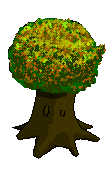
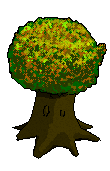
Added Z coordinate to objects.
git-svn-id: svn://svn.code.sf.net/p/annchienta/code/trunk@335 6c58e83f-43c0-4801-a1bd-44083660f6ae

diff --git a/Annchienta/src/staticobject.cpp b/Annchienta/src/staticobject.cpp
@@ -16,6 +16,11 @@ using namespace io;
 #include "layer.h"
 #include "tileset.h"
 
+bool DepthSortPredicate( const Annchienta::Tile* tilep1, const Annchienta::Tile* tilep2 )
+{
+    return tilep1->getDepthSortY() < tilep2->getDepthSortY();
+}
+
 namespace Annchienta
 {
 
@@ -93,8 +98,10 @@ namespace Annchienta
         {
             collidingTiles.clear();
 
-            Point pos = this->getSpritePosition(), point;
+            Point pos = this->getMaskPosition(), point;
 
+            /* First we need to collect all colliding tiles.
+             */
             for( int ty=0; ty<layer->getHeight(); ty++ )
             {
                 for( int tx=0; tx<layer->getWidth(); tx++ )
@@ -104,9 +111,28 @@ namespace Annchienta
                     if( mask->collision( pos.x, pos.y, layer->getTileSet()->getMask(), point.x, point.y ) )
                         collidingTiles.push_back( tile );
                 }
+
             }
 
-            //needsUpdate = false;
+            /* Do a depthsort on them.
+             */
+            collidingTiles.sort( DepthSortPredicate );
+
+            /* Now, we set out Z to the highest one of the colliding tiles.
+             */
+            position.z = 0;
+            for( std::list<Tile*>::iterator i = collidingTiles.begin(); i!=collidingTiles.end(); i++ )
+            {
+                for( int p=0; p<4; p++ )
+                {
+                    if( (*i)->getZ(p) > position.z )
+                    {
+                        position.z = (*i)->getZ(p);
+                    }
+                }
+            }
+
+            needsUpdate = false;
         }
 
         mapPosition = position.to( MapPoint );
@@ -141,11 +167,16 @@ namespace Annchienta
             }
         }
 
-        Point pos = this->getSpritePosition();
+        Point pos = this->getMaskPosition();
 
-        getVideoManager()->drawSurface( sprite, pos.x, pos.y, frame->x1, frame->y1, frame->x2, frame->y2 );
-        //printf("Drawing area: %d, %d, %d, %d\n", frame->x1, frame->y1, frame->x2, frame->y2 );
+        getVideoManager()->drawSurface( sprite, pos.x, pos.y-pos.z, frame->x1, frame->y1, frame->x2, frame->y2 );
 
+        /*glColor3f(1.0f,0.0f,0.0f);
+        glBindTexture( GL_TEXTURE_2D, 0 );
+        glBegin( GL_POINTS );
+            glVertex2f( mapPosition.x, mapPosition.y );
+        glEnd();
+        glColor3f(1.0f,1.0f,1.0f);*/
     }
 
     int StaticObject::getDepthSortY() const
@@ -165,7 +196,7 @@ namespace Annchienta
         return position;
     }
 
-    Point StaticObject::getSpritePosition() const
+    Point StaticObject::getMaskPosition() const
     {
         return Point( MapPoint, mapPosition.x - (mask->getWidth()>>1), mapPosition.y - mask->getHeight(), mapPosition.z );
     }

diff --git a/Annchienta/src/entity.h b/Annchienta/src/entity.h
@@ -5,7 +5,7 @@
 #ifndef ANNCHIENTA_ENTITY_H
 #define ANNCHIENTA_ENTITY_H
 
-#include <string>
+#include "point.h"
 
 namespace Annchienta
 {
@@ -25,6 +25,7 @@ namespace Annchienta
             virtual void draw() = 0;
             virtual void update() = 0;
             virtual int getDepthSortY() const = 0;
+            virtual Point getMaskPosition() const = 0;
 
             void setDrawn( bool drawn );
             bool isDrawn() const;
@@ -35,6 +36,7 @@ namespace Annchienta
             void setLayer( Layer *layer );
             Layer *getLayer() const;
     };
+
 };
 
 #endif

diff --git a/Annchienta/src/staticobject.h b/Annchienta/src/staticobject.h
@@ -68,7 +68,7 @@ namespace Annchienta
 
             virtual void setPosition( Point );
             virtual Point getPosition() const;
-            virtual Point getSpritePosition() const;
+            virtual Point getMaskPosition() const;
 
             virtual void setAnimation( const char *animationName );
     };

diff --git a/Annchienta/src/tile.h b/Annchienta/src/tile.h
@@ -39,7 +39,8 @@ namespace Annchienta
             virtual int getDepthSortY() const;
 
             #ifndef SWIG
-                Point getMaskPosition() const;
+                virtual Point getMaskPosition() const;
+                int getZ( int point );
             #endif
 
     };

diff --git a/Annchienta/src/person.h b/Annchienta/src/person.h
@@ -23,7 +23,8 @@ namespace Annchienta
 
             virtual void update();
 
-            virtual void move( int x, int y );
+            virtual void move( int x, int y, bool force=false );
+            //virtual void stepTo( int x, int y );
     };
 
 };

diff --git a/Annchienta/src/person.cpp b/Annchienta/src/person.cpp
@@ -64,10 +64,12 @@ namespace Annchienta
         StaticObject::update();
     }
 
-    void Person::move( int x, int y )
+    void Person::move( int x, int y, bool force )
     {
         position.x += x;
         position.y += y;
+
+        
     }
 
 };

diff --git a/Annchienta/src/tile.cpp b/Annchienta/src/tile.cpp
@@ -218,4 +218,9 @@ namespace Annchienta
         return Point( MapPoint, points[1].x, points[0].y + points[0].z );
     }
 
+    int Tile::getZ( int point )
+    {
+        return points[point].z;
+    }
+
 };

diff --git a/Annchienta/src/entity.cpp b/Annchienta/src/entity.cpp
@@ -5,6 +5,7 @@
 #include "entity.h"
 
 #include <stdio.h>
+#include <string.h>
 
 namespace Annchienta
 {
